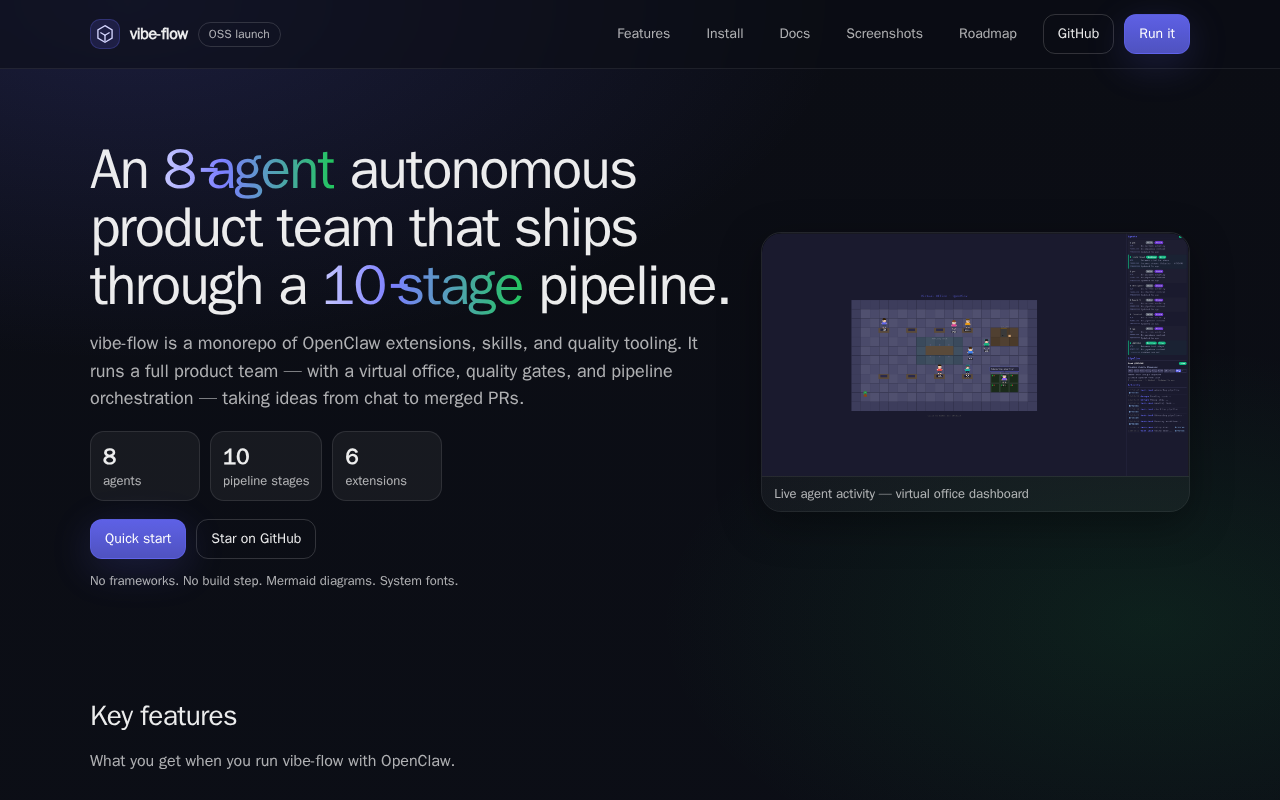
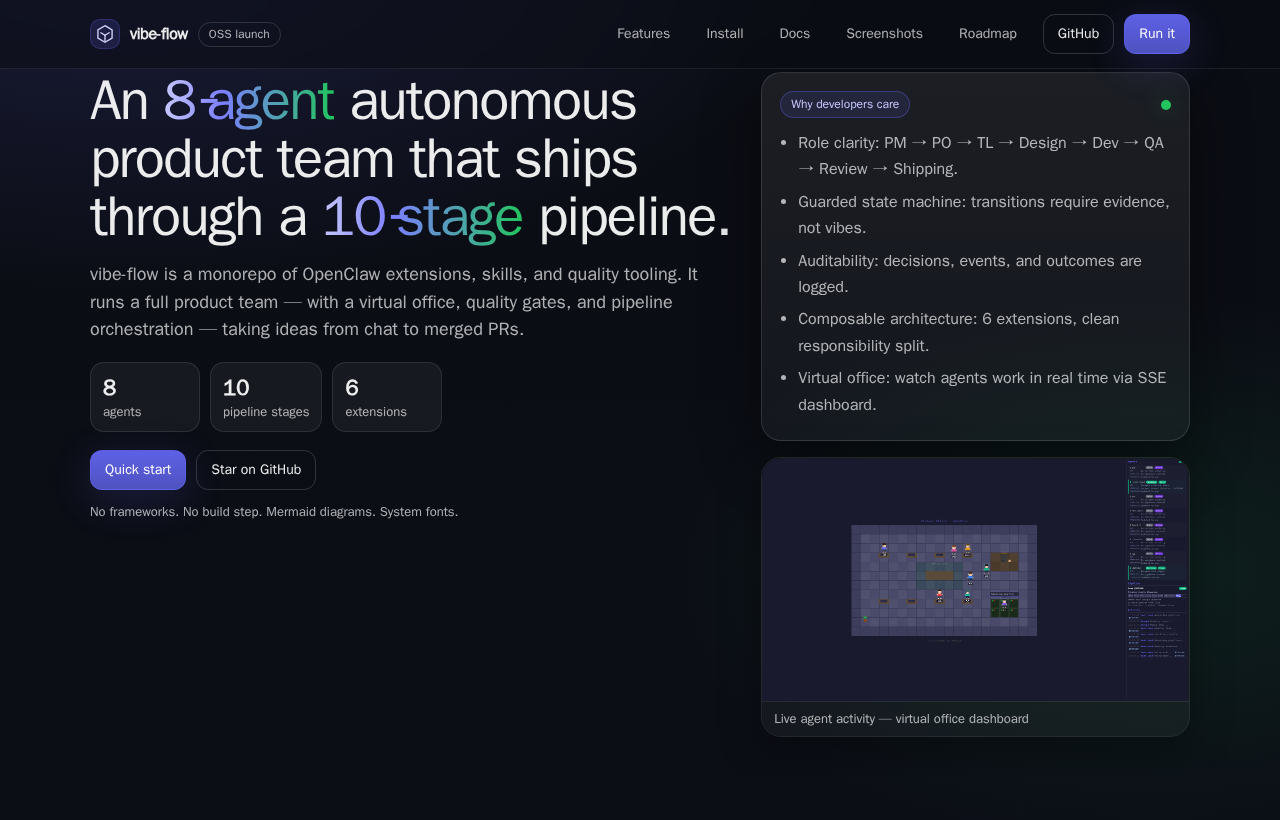
feat(site): keep hero rationale card + add office activity screenshot

diff --git a/site/index.html b/site/index.html
@@ -127,16 +127,32 @@
           </p>
         </div>
 
-        <figure class="hero__screenshot reveal" aria-label="Virtual office — agents in action">
-          <img
-            src="img/office-activity-10.png"
-            alt="Virtual office dashboard showing 8 agents working through a pipeline task in real time"
-            width="1656"
-            height="945"
-            loading="eager"
-          />
-          <figcaption class="muted small">Live agent activity — virtual office dashboard</figcaption>
-        </figure>
+        <div class="hero__visual">
+          <div class="hero__card reveal" aria-label="What makes vibe-flow different">
+            <div class="hero__cardHeader">
+              <span class="badge">Why developers care</span>
+              <span class="dot" aria-hidden="true"></span>
+            </div>
+            <ul class="bullets">
+              <li><strong>Role clarity</strong>: PM → PO → TL → Design → Dev → QA → Review → Shipping.</li>
+              <li><strong>Guarded state machine</strong>: transitions require evidence, not vibes.</li>
+              <li><strong>Auditability</strong>: decisions, events, and outcomes are logged.</li>
+              <li><strong>Composable architecture</strong>: 6 extensions, clean responsibility split.</li>
+              <li><strong>Virtual office</strong>: watch agents work in real time via SSE dashboard.</li>
+            </ul>
+          </div>
+
+          <figure class="hero__screenshot reveal" aria-label="Virtual office — agents in action">
+            <img
+              src="img/office-activity-10.png"
+              alt="Virtual office dashboard showing 8 agents working through a pipeline task in real time"
+              width="1656"
+              height="945"
+              loading="eager"
+            />
+            <figcaption class="muted small">Live agent activity — virtual office dashboard</figcaption>
+          </figure>
+        </div>
       </div>
 
       <div class="hero__glow" aria-hidden="true"></div>

diff --git a/site/style.css b/site/style.css
@@ -238,6 +238,26 @@ code, pre { font-family: var(--mono); }
 
 .hero__actions { display: flex; gap: 10px; flex-wrap: wrap; }
 
+.hero__visual {
+  display: flex;
+  flex-direction: column;
+  gap: 16px;
+}
+
+.hero__card {
+  border-radius: var(--radius2);
+  border: 1px solid rgba(255,255,255,0.12);
+  background: linear-gradient(180deg, rgba(255,255,255,0.07), rgba(255,255,255,0.04));
+  padding: 18px 18px 16px;
+  box-shadow: var(--shadow);
+}
+.hero__cardHeader {
+  display: flex;
+  align-items: center;
+  justify-content: space-between;
+  margin-bottom: 12px;
+}
+
 .hero__screenshot {
   margin: 0;
   border-radius: var(--radius2);
